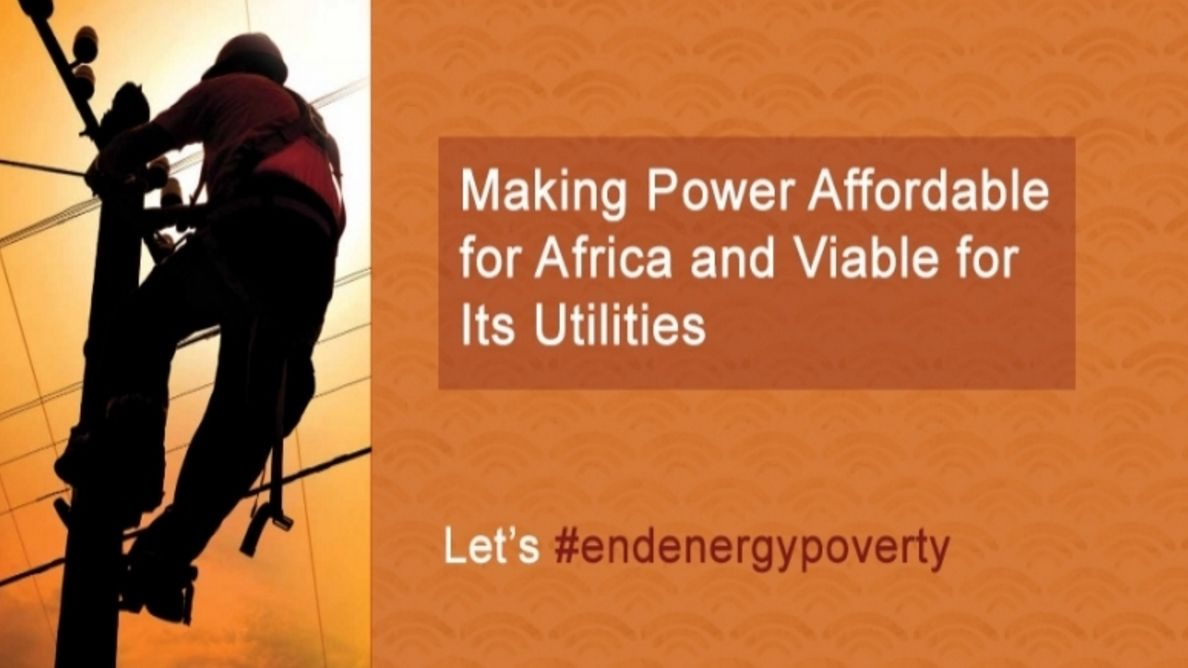
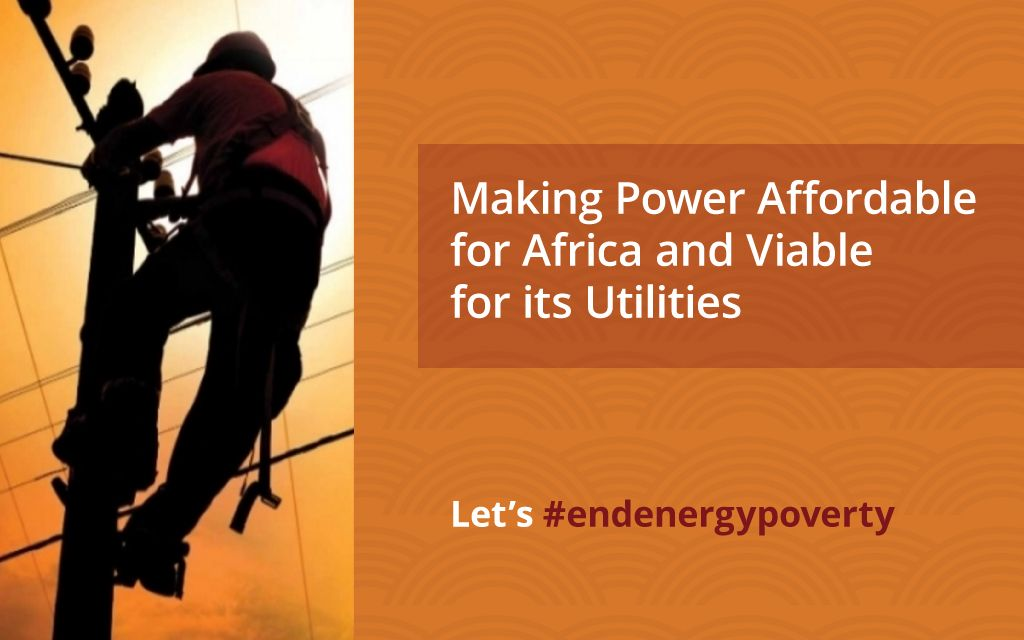
Rework datasets image ratio. Fix #75

Changed region(s): [[0.0, 0.0, 1.0, 1.0], [0.1875, 0.9375, 0.25, 1.0], [0.0, 0.5, 0.0312, 0.5625]]

diff --git a/ckanext-offgridtheme/ckanext/offgridtheme/fanstatic/styles/main.css b/ckanext-offgridtheme/ckanext/offgridtheme/fanstatic/styles/main.css
@@ -8786,11 +8786,15 @@ a.tool-media-screenshot:hover {
 @media (min-width: 768px) {
   .card-media-screenshot {
     position: absolute;
-    width: 140%;
+    width: 104%;
     top: 50%;
     left: 50%;
     transform: translate(-50%, -50%);
   }
+}
+.data-map {
+  width: 100%;
+  height: 100%;
 }
 .card-media-map {
   width: 100%;
@@ -8844,10 +8848,6 @@ a.tool-media-screenshot:hover {
 }
 .card-body > *:last-child {
   margin-bottom: 0;
-}
-.data-map {
-  width: 100%;
-  height: 100%;
 }
 .account-masthead {
   *zoom: 1;

diff --git a/ckanext-offgridtheme/ckanext/offgridtheme/sources/styles/less/homepage.less b/ckanext-offgridtheme/ckanext/offgridtheme/sources/styles/less/homepage.less
@@ -317,11 +317,16 @@ a.tool-media-screenshot {
 
   @media (min-width: 768px) {
     position: absolute;
-    width: 140%;
+    width: 104%;
     top: 50%;
     left: 50%;
     transform: translate(-50%, -50%);
   }
+}
+
+.data-map {
+  width: 100%;
+  height: 100%;
 }
 
 .card-media-map {
